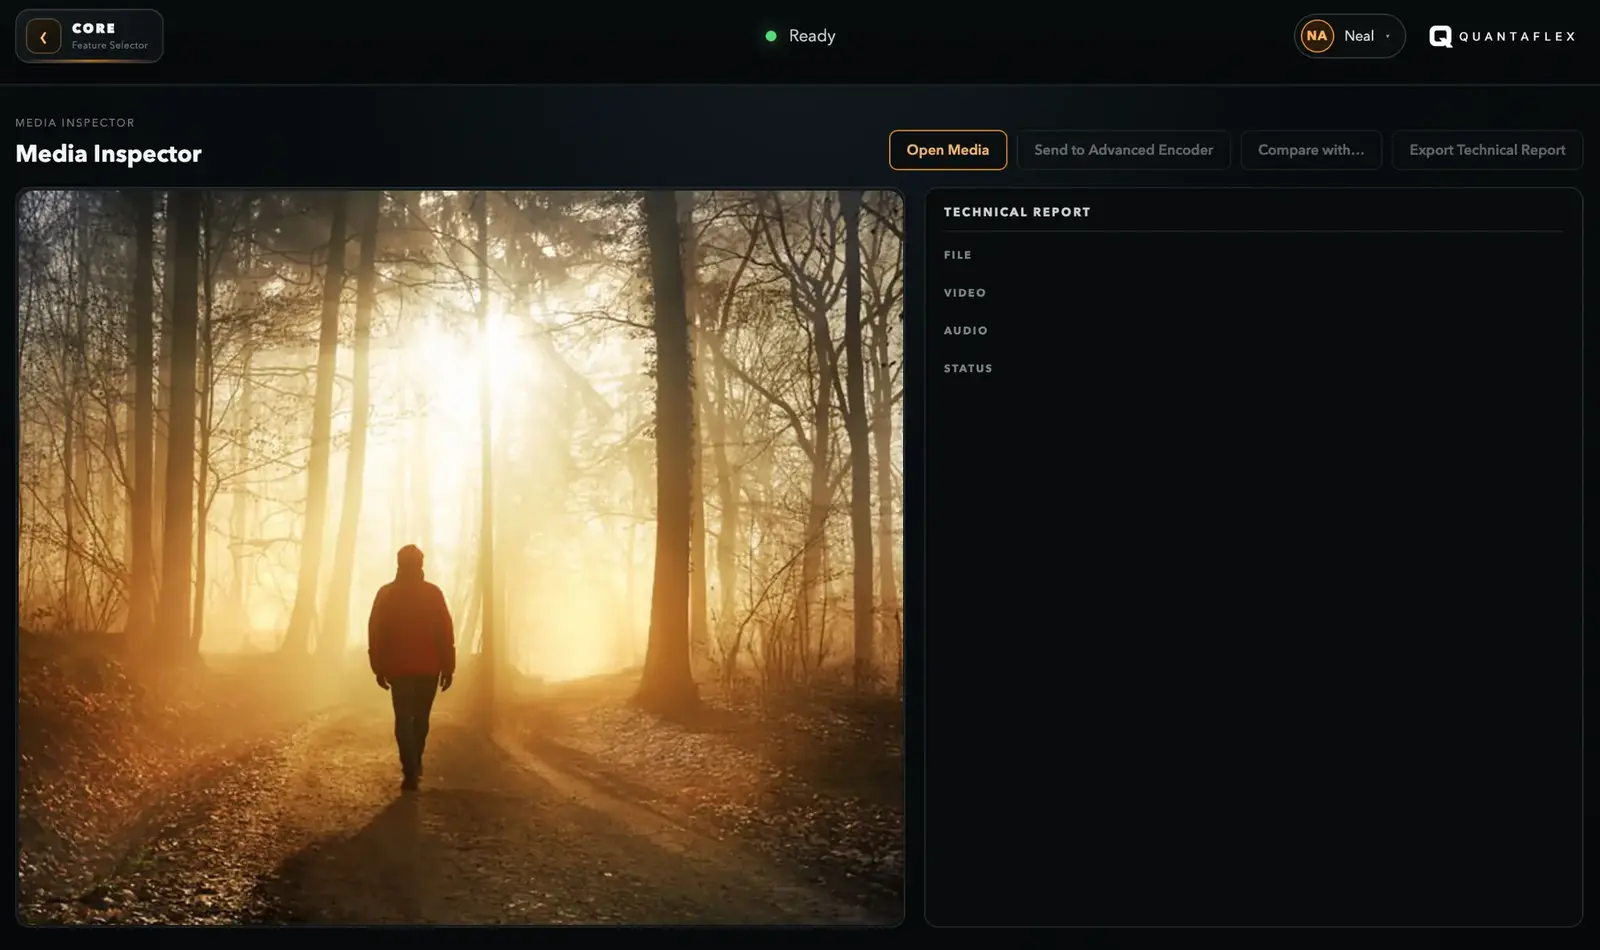
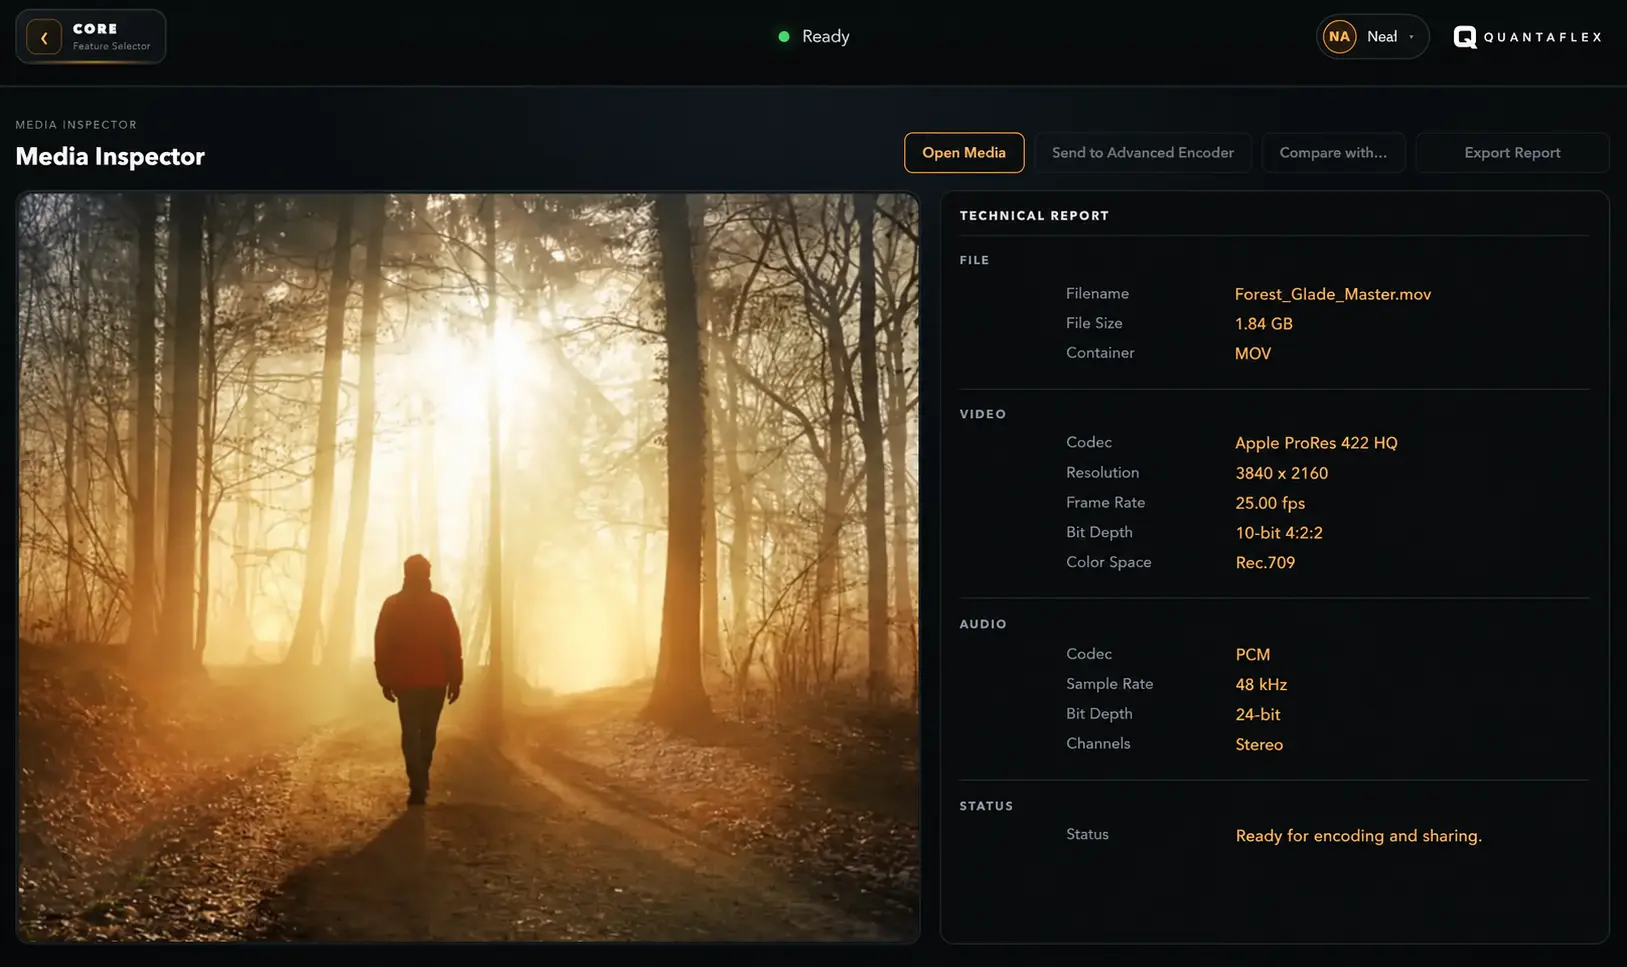
Expand Media Inspector technical report

diff --git a/features/media-inspector/index.html b/features/media-inspector/index.html
@@ -106,7 +106,7 @@
           <p class="feature-kicker"><span aria-hidden="true"></span>FEATURE</p>
           <h1 id="inspector-title">MEDIA INSPECTOR</h1>
           <p class="inspector-subtitle">TECHNICAL MEDIA ANALYSIS &amp; VERIFICATION</p>
-          <h2>Know what is inside the file before you edit, encode, or share it.</h2>
+          <h2>A full technical report - so you know what is inside the file before you encode or share it.</h2>
           <p class="inspector-summary">Media Inspector turns a confusing media file into a clear technical report: the container, codec, resolution, frame rate, bitrate, pixel format, colour information, audio stream, and delivery readiness.</p>
         </div>
         <figure class="inspector-screen">
